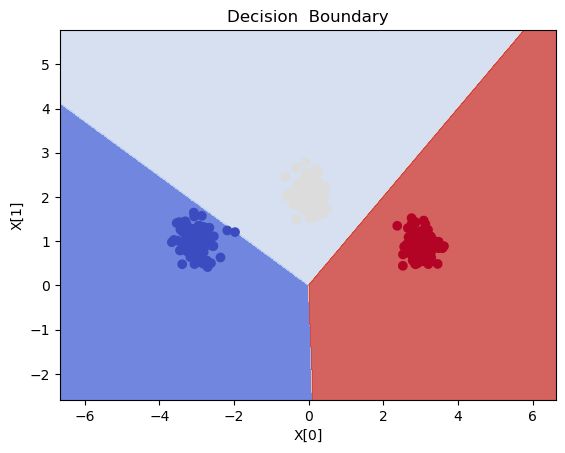
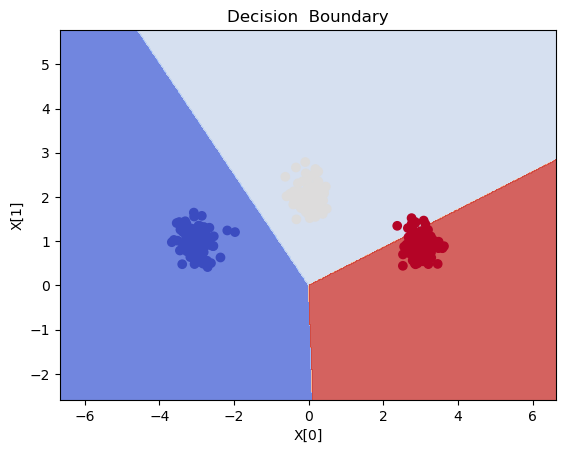
finisehd hw5 code

Changed region(s): [[0.0903, 0.0618, 0.9929, 0.649]]

diff --git a/homework/homework_5/hw_5.py b/homework/homework_5/hw_5.py
@@ -18,26 +18,6 @@ plt.scatter(X[:, 0], X[:, 1], c=y, s=50)
 # # One VS All
 
 # %%
-classes=set(y)
-
-def fit_single_classifier(X, y_i):
-    pass
-estimators=[0]*len(set(y))
-for target_class in set(y):
-    y_prime=(y==target_class).astype("int")
-    svm_estimator = svm.LinearSVC(loss='hinge', fit_intercept=False, C=200)
-    svm_estimator.fit(X,y_prime)
-    estimators[target_class]=svm_estimator
-# for i in range(3) :
-#     print("Coeffs %d"%i)
-#     print(estimators[i].coef_) #Will fail if you haven't implemented fit yet
-classfier_estimates=np.zeros((X.shape[0], len(set(y))))
-for target_class in set(y):
-    classfier_estimates[:,target_class]=estimators[target_class].decision_function(X)
-classfier_estimates
-np.argmax(classfier_estimates, axis=1)
-
-# %%
 from sklearn.base import BaseEstimator, ClassifierMixin, clone
 
 class OneVsAllClassifier(BaseEstimator, ClassifierMixin):  
@@ -90,7 +70,7 @@ class OneVsAllClassifier(BaseEstimator, ClassifierMixin):
                 "Base estimator doesn't have a decision_function attribute.")
         classifier_estimates=np.zeros((X.shape[0], self.n_classes ))
         for target_class in range(self.n_classes):
-            classifier_estimates[:,target_class]=estimators[target_class].decision_function(X)
+            classifier_estimates[:,target_class]=self.estimators[target_class].decision_function(X)
         return classifier_estimates
     def predict(self, X):
         """
@@ -125,9 +105,10 @@ mesh_input = np.c_[xx.ravel(), yy.ravel()]
 
 Z = clf_onevsall.predict(mesh_input)
 Z = Z.reshape(xx.shape)
-plt.contourf(xx, yy, Z, alpha=0.8)
+plt.contourf(xx, yy, Z, alpha=0.8,cmap=plt.cm.coolwarm)
 # Plot also the training points
 plt.scatter(X[:, 0], X[:, 1], c=y, cmap=plt.cm.coolwarm)
+
 plt.xlabel("X[0]")
 plt.ylabel("X[1]")
 plt.title("Decision  Boundary")
@@ -137,28 +118,6 @@ metrics.confusion_matrix(y, clf_onevsall.predict(X))
 
 # %% [markdown]
 # # Multiclass SVM
-
-# %%
-class_combinations=list(itertools.permutations([0,1,2], 2))
-target_comboination=class_combinations[0]
-psi= lambda target_combination, y: np.array([y_i in target_comboination for y_i in y])
-psi_x_y=np.zeros((len(y), 6))
-i=0
-for target_combination in itertools.permutations(set(y), 2):
-    psi_x_y[:,i]=psi(target_combination, y)
-    i=i+1
-psi_x_y.shape
-
-# %%
-psi_x=featureMap(X[0],0,3)
-psi_x.shape
-w=np.ones((6))
-y_true=0
-# y_prime=range(3)
-check_objective= lambda y_prime: zeroOne(y_true, y_prime) +  featureMap(X[0], y_prime,num_classes=3)@w - featureMap(X[0], y_true,num_classes=3)@w
-a=list(map(check_objective, range(3)))
-np.argmax(a)
-
 
 # %%
 def zeroOne(y,a) :
@@ -182,7 +141,9 @@ def featureMap(X,y,num_classes) :
     #your code goes here, and replaces following return
     x_prime=np.zeros((num_samples,num_inFeatures*num_classes))
     x_prime[:,0+(num_classes-1)*y:2+(num_classes-1)*y]=X
-    return x_prime
+    return np.squeeze(x_prime)
+
+
 def sgd(X, y, num_outFeatures, subgd, eta = 0.1, T = 10000):
     '''
     Runs subgradient descent, and outputs resulting parameter vector.
@@ -196,7 +157,7 @@ def sgd(X, y, num_outFeatures, subgd, eta = 0.1, T = 10000):
     '''
     alpha=.5
     num_samples = X.shape[0]
-    w=np.array([1]*num_outFeatures)
+    w = np.zeros(num_outFeatures)
     t=0
     indecies=list(range(num_samples))
     rng=np.random.default_rng()
@@ -238,7 +199,7 @@ class MulticlassSVM(BaseEstimator, ClassifierMixin):
         '''
         #Your code goes here and replaces the following return statement
         regularization_term=2*self.lam*w
-        check_objective= lambda y_prime: zeroOne(y, y_prime) +  self.Psi(x, y_prime)@w.T - self.Psi(x, y)@w.T
+        check_objective= lambda y_prime: self.Delta(y, y_prime) +  np.dot(w, self.Psi(x, y_prime)) - np.dot(w,self.Psi(x, y))
         a=list(map(check_objective, range(self.num_classes)))
         y_pred=np.argmax(a)
         out=np.max(a)
@@ -272,7 +233,7 @@ class MulticlassSVM(BaseEstimator, ClassifierMixin):
         #Your code goes here and replaces following return statement
         descions=np.zeros([X.shape[0],self.num_classes])
         for i in range(self.num_classes):
-            descions[:,i]=self.coef_@self.Psi(X,i).T
+            descions[:,i]=np.dot(self.Psi(X,i),self.coef_)
         return descions
 
 
@@ -287,14 +248,13 @@ class MulticlassSVM(BaseEstimator, ClassifierMixin):
 
         #Your code goes here and replaces following return statement
         classifier_estimates=self.decision_function(X)
-        print(classifier_estimates.shape)
         return np.argmax(classifier_estimates, axis=1)
 
 # %%
 #the following code tests the MulticlassSVM and sgd
 #will fail if MulticlassSVM is not implemented yet
 est = MulticlassSVM(6,lam=1)
-est.fit(X,y,eta=0.1, T=4999)
+est.fit(X,y,eta=0.1, T=5000)
 print("w:")
 print(est.coef_)
 Z = est.predict(mesh_input)
